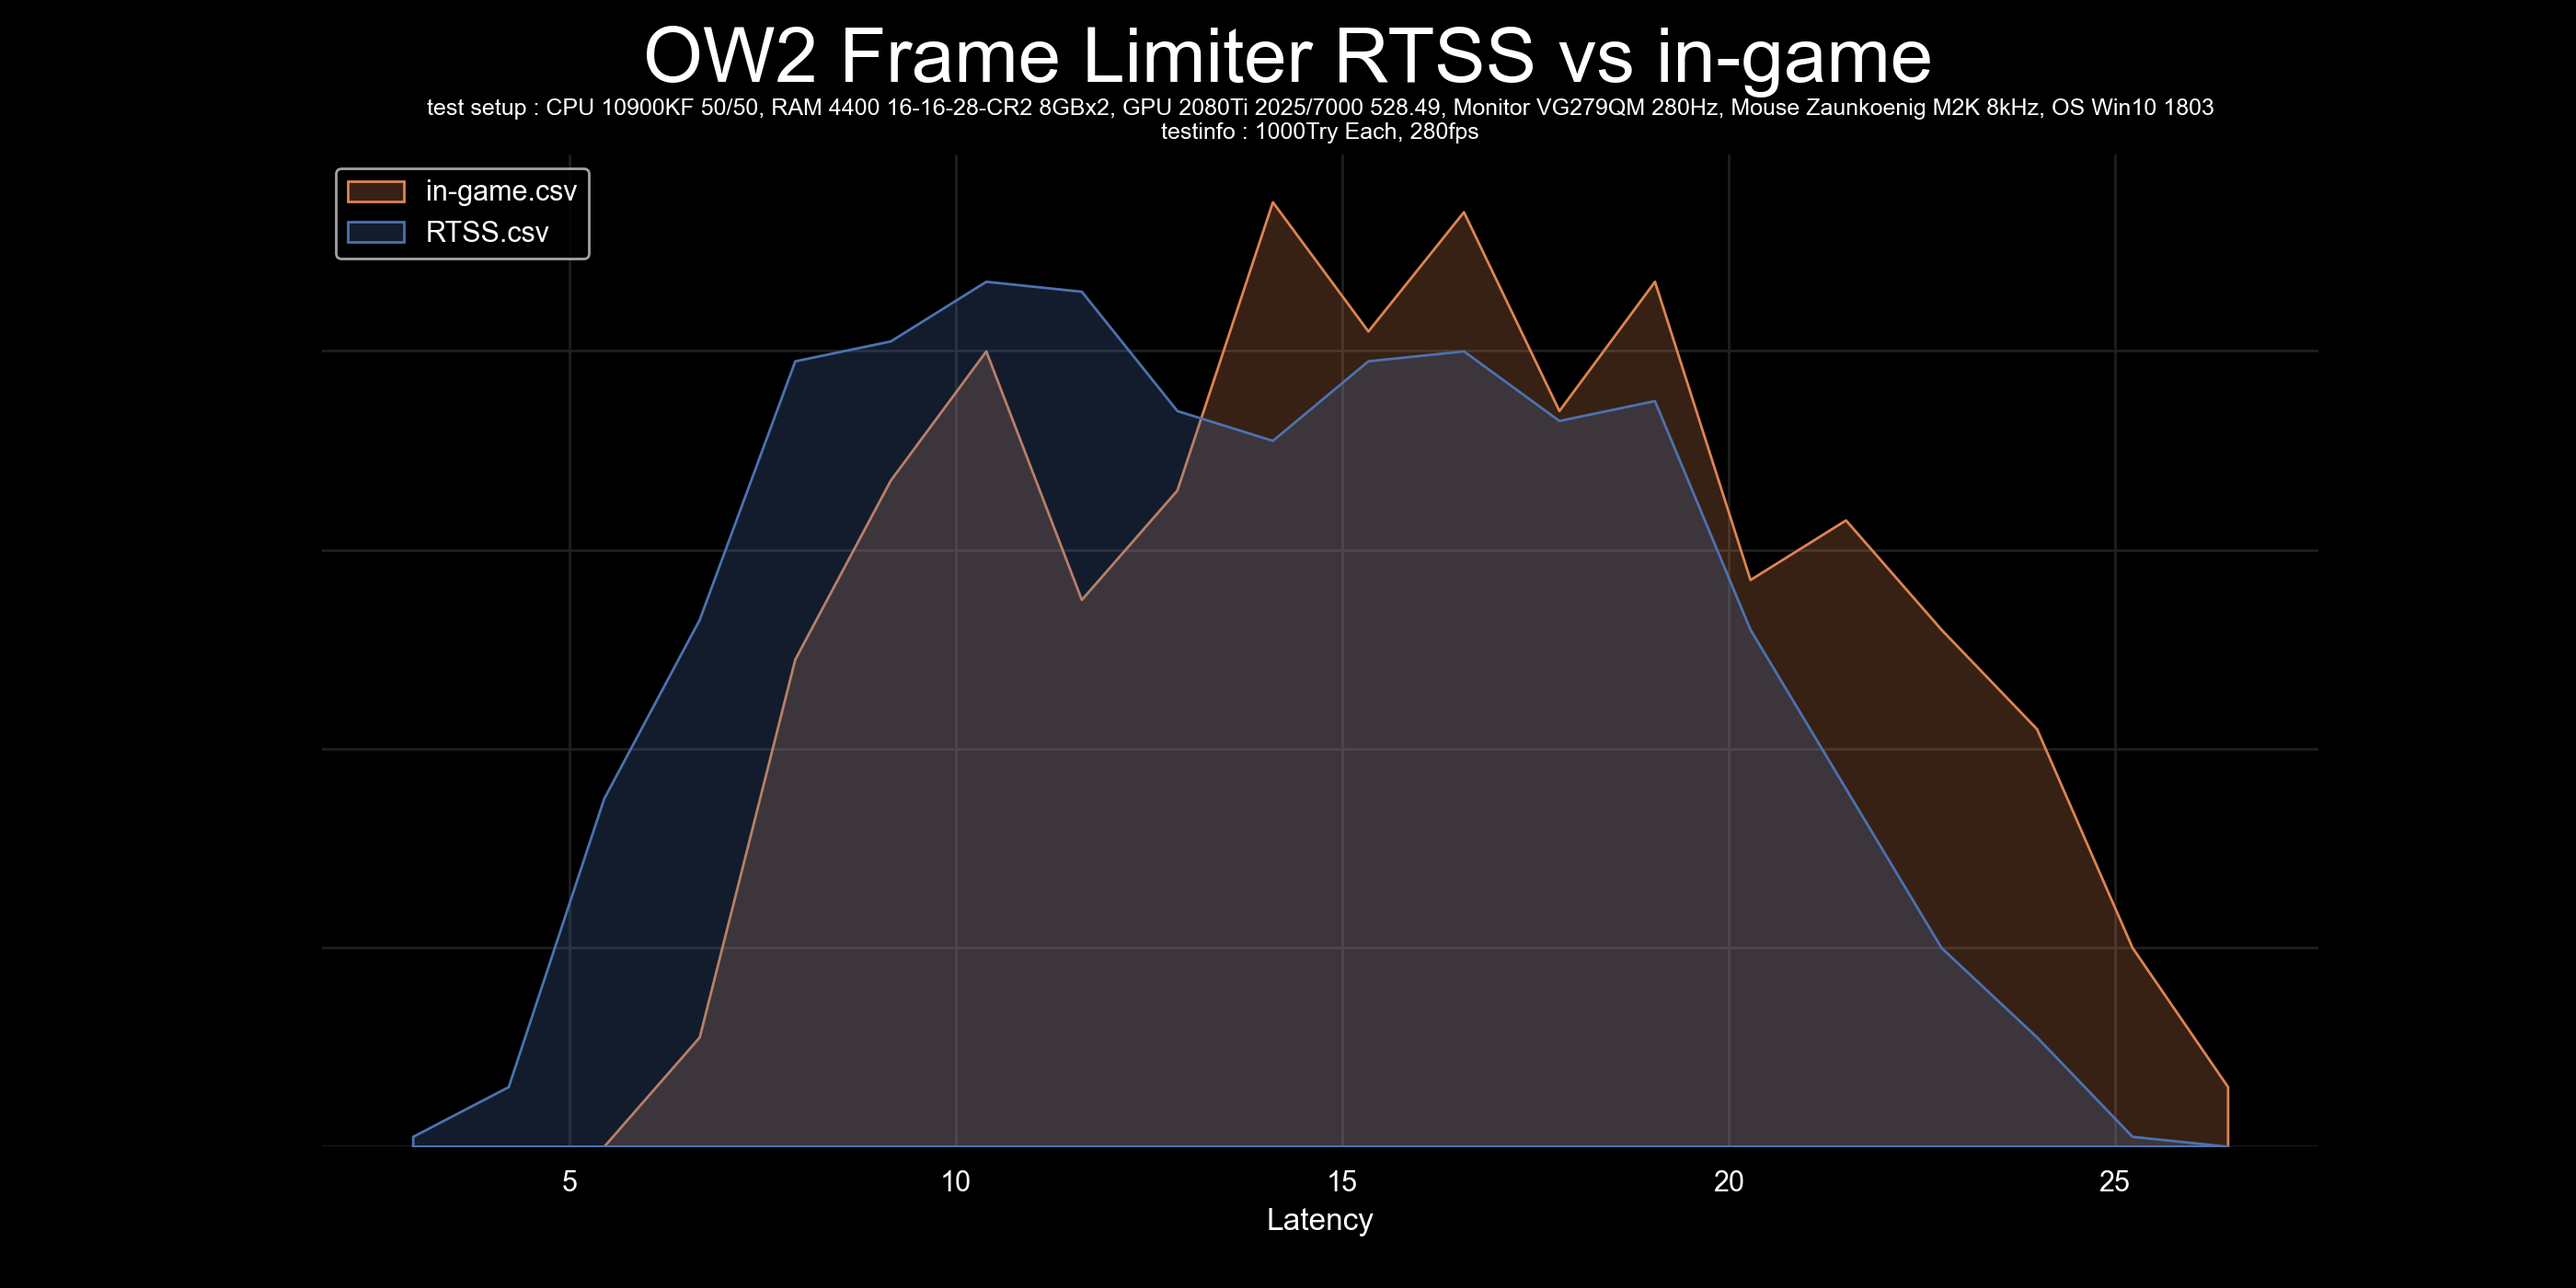
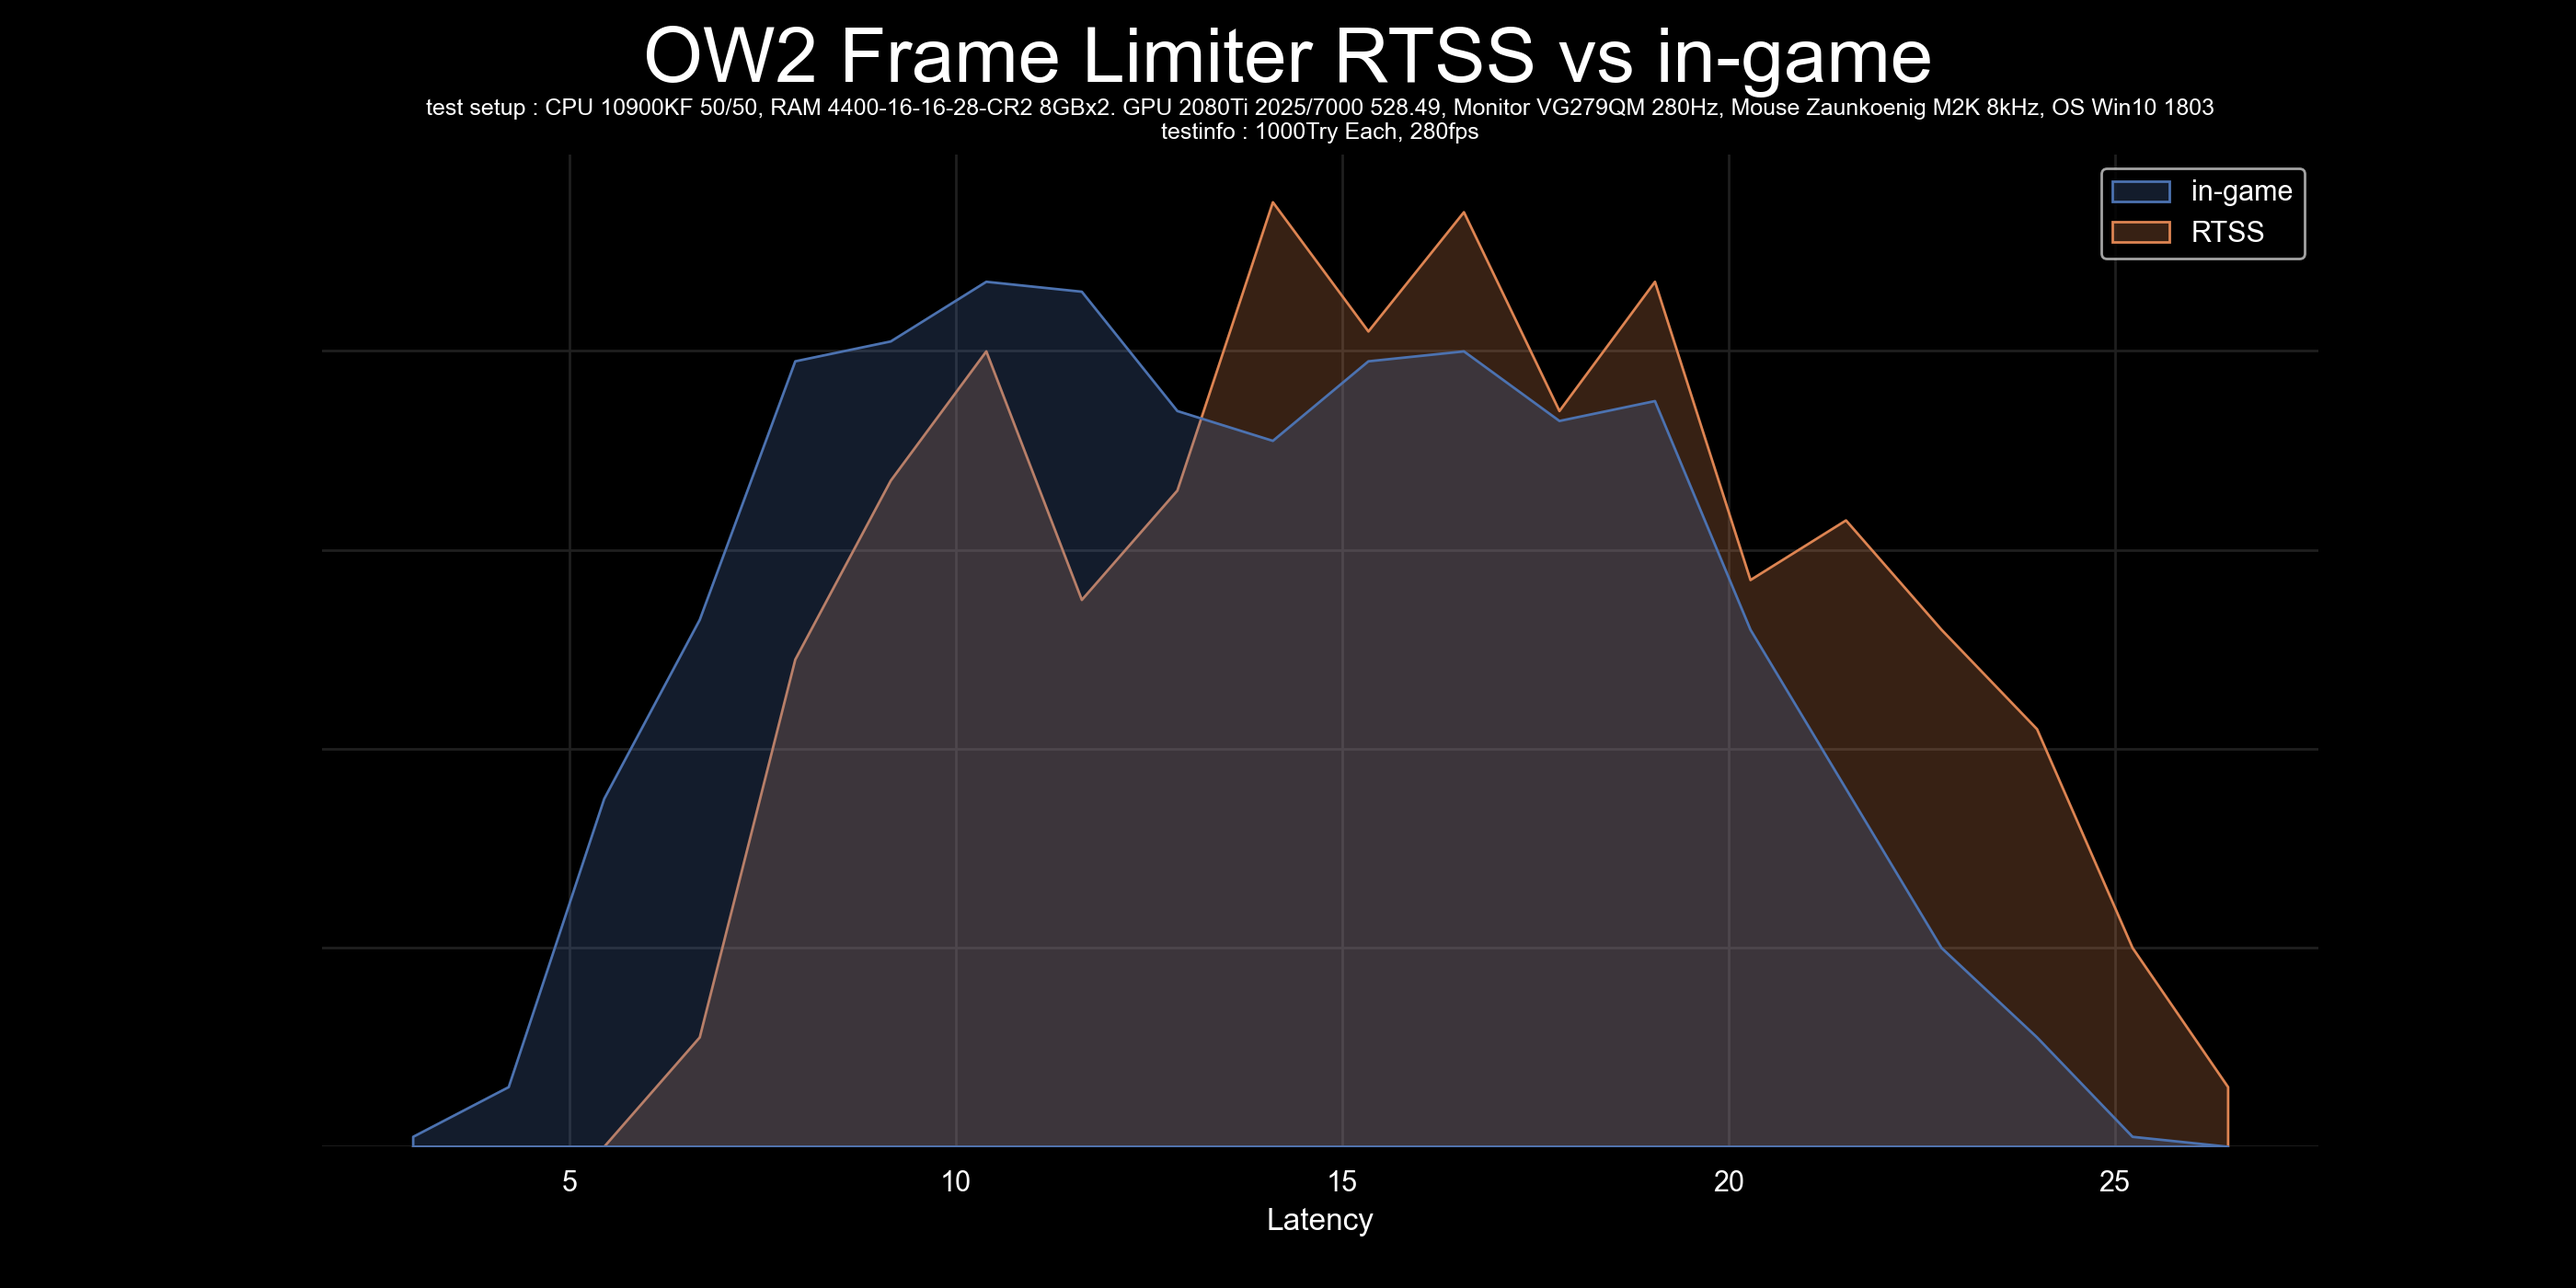
fix legend order and add kdeplot

Changed region(s): [[0.1243, 0.1229, 0.2175, 0.215], [0.8079, 0.1229, 0.9011, 0.215], [0.1554, 0.0614, 0.3418, 0.0921]]

diff --git a/kde.py b/kde.py
@@ -17,7 +17,7 @@ labelcolor = "#FFFFFF"
 gridcolor = "#1F1F1F"
 plotcolor = ["#FF0000","#00FF00","#0000FF","#FFFF00","#00FFFF","#FF00FF","#BFBFBF","#7F7F7F","#7F0000","#7F7F00","#007F00","#7F007F","#007F7F"]
 
-#select csv files with filedialog
+# select csv files with filedialog
 fle = list(filedialog.askopenfilenames(filetypes=[('csv file','.csv')]))
 
 # aggregate all csv data
@@ -25,9 +25,7 @@ for i in range(len(fle)):
     filename_list.append(os.path.basename(fle[i]))
     var_name = var_list[i]
     globals()[var_name] = pd.read_csv(fle[i],names=['Latency'])
-    exec("{}['testname'] = '{}'".format(var_name,os.path.splitext(os.path.basename(fle[i]))[0]))
     exec("data_list.append({})".format(var_name))
-mergedataset = pd.concat(data_list)
 
 # user input for GraphTitle
 GraphTitle = tkinter.simpledialog.askstring("Enter Graph Title", "Enter Graph Title")
@@ -44,10 +42,9 @@ fig = plt.figure(figsize=(14,7))
 ax = fig.add_subplot(111)
 
 # create plot
-plot = sb.histplot(data=mergedataset, hue='testname',x='Latency',bins=20, element="poly", legend=True)
-plot.legend_.set_title('')
-for text in plot.legend_.get_texts():
-    text.set_color(labelcolor)
+for i in range(len(fle)):
+    sb.kdeplot(data=data_list[i], x='Latency', label=filename_list[i])
+plt.legend(labelcolor=labelcolor)
 
 # custom figure title and ticks and label,spines
 fig.suptitle(GraphTitle,y=0.98,size=30,color=labelcolor)
@@ -62,4 +59,4 @@ ax.xaxis.label.set_color(labelcolor)
 
 # save figure as figure.png with high resolution
 dir_path = os.path.dirname(os.path.realpath(__file__))
-plt.savefig(dir_path+"\\"+GraphTitle+"_histgraph_poly.png", dpi=200)
+plt.savefig(dir_path+"\\"+GraphTitle+"_kdeplot.png", dpi=200)

diff --git a/histgraph_step.py b/histgraph_step.py
@@ -25,7 +25,7 @@ for i in range(len(fle)):
     filename_list.append(os.path.basename(fle[i]))
     var_name = var_list[i]
     globals()[var_name] = pd.read_csv(fle[i],names=['Latency'])
-    exec("{}['filename'] = '{}'".format(var_name,os.path.basename(fle[i])))
+    exec("{}['testname'] = '{}'".format(var_name,os.path.splitext(os.path.basename(fle[i]))[0]))
     exec("data_list.append({})".format(var_name))
 mergedataset = pd.concat(data_list)
 
@@ -44,7 +44,10 @@ fig = plt.figure(figsize=(14,7))
 ax = fig.add_subplot(111)
 
 # create plot
-sb.histplot(data=mergedataset, hue='filename',x='Latency',bins=20, element="step", legend=False)
+plot = sb.histplot(data=mergedataset, x='Latency', hue='testname', bins=20, element="step", legend=True)
+plot.legend_.set_title('')
+for text in plot.legend_.get_texts():
+    text.set_color(labelcolor)
 
 # custom figure title and ticks and label,spines
 fig.suptitle(GraphTitle,y=0.98,size=30,color=labelcolor)
@@ -56,7 +59,6 @@ for b in ['top', 'bottom', 'left', 'right']:
 ax.set(ylabel="input latency [ms]")
 ax.yaxis.label.set_color(backcolor)
 ax.xaxis.label.set_color(labelcolor)
-plt.legend(title='', loc='upper left', labels=filename_list, labelcolor=labelcolor)
 
 # save figure as figure.png with high resolution
 dir_path = os.path.dirname(os.path.realpath(__file__))

diff --git a/README.md b/README.md
@@ -8,6 +8,8 @@
 ![preview_step](preview_histgraph_step.png)
 - [histgraph_poly.py](histgraph_poly.py) -> Script to graph input latency data with histgraph in poly mode  
 ![preview_poly](preview_histgraph_poly.png)
+- [kdeplot.py](kdeplot.py) -> Script to graph input latency data with kdeplot  
+![preview_kdeplot](preview_kdeplot.png)
 
 ## requisite
 - csv file containing data on input latency with no headers and units, separated by line feeds
@@ -23,4 +25,4 @@
 2. Install the module written above using `pip install pandas seaborn tk matplotlib`.
 3. run python file and select csv files.
 4. Enter GraphTitle and TestSetup,TestInfo.(ex "RawInput ON vs OFF" and "10900KF, 4000MHz16-17-17-35, 2080Ti" , "1000Try Each, DX12".
-5. plot.png is in the same folder as plot.py.
+5. $GraphTitle_plot.png is in the same folder as plot.py.
